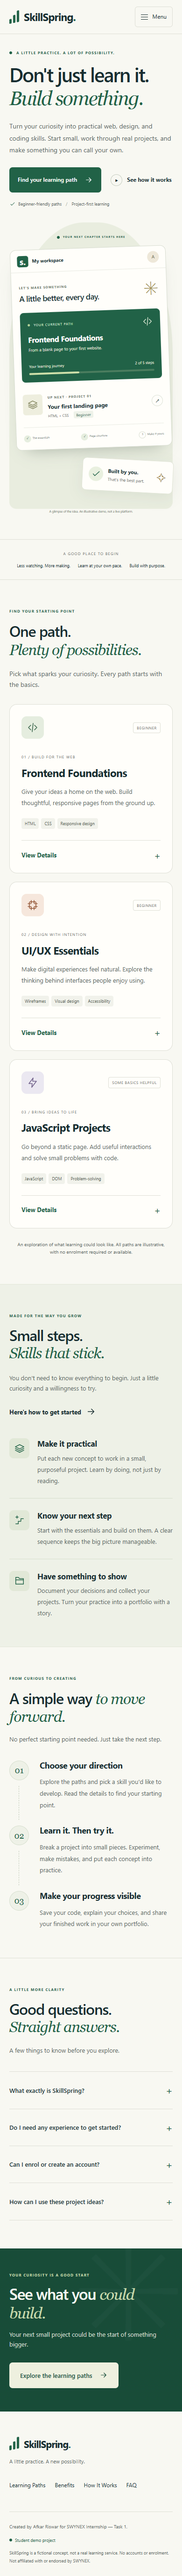
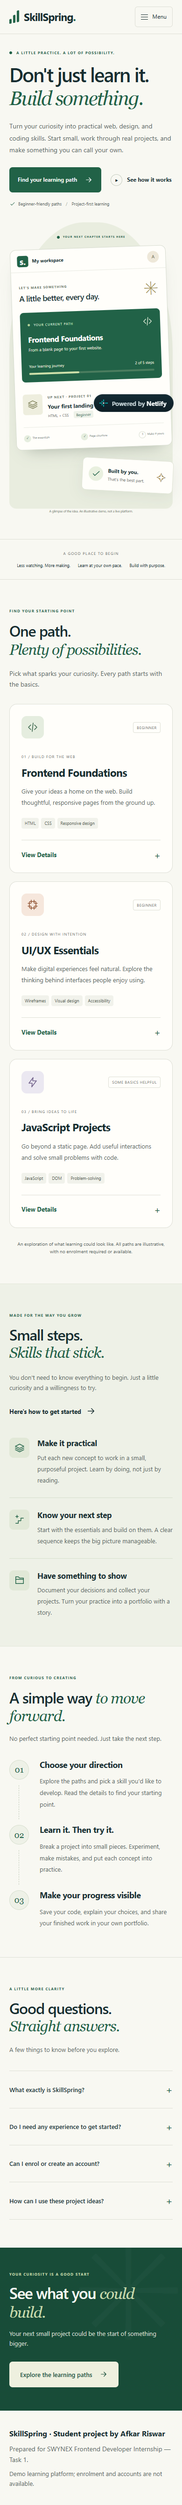
Deploy SkillSpring to Netlify and simplify footer

diff --git a/styles.css b/styles.css
@@ -228,8 +228,7 @@ p {
   font-weight: 550;
   padding-block: 13px;
 }
-.site-nav > a:not(.button):hover,
-.site-footer nav a:hover {
+.site-nav > a:not(.button):hover {
   color: var(--green);
   text-decoration: underline;
   text-underline-offset: 5px;
@@ -926,51 +925,20 @@ h1 .serif-accent {
   pointer-events: none;
 }
 .site-footer {
-  padding-block: 47px 25px;
+  padding-block: 36px;
 }
-.footer-top {
-  display: flex;
-  align-items: center;
-  gap: 26px;
-  padding-bottom: 34px;
-  border-bottom: 1px solid var(--line);
+.footer-identity {
+  color: var(--ink);
+  font-size: 16px;
+  font-weight: 650;
+  margin-bottom: 8px;
 }
-.footer-top .wordmark {
-  font-size: 21px;
-}
-.footer-top > p {
-  font-size: 10px;
-}
-.footer-top nav {
-  display: flex;
-  gap: 23px;
-  margin-left: auto;
-}
-.footer-top nav a {
-  display: inline-flex;
-  align-items: center;
-  font-size: 11px;
-  min-height: 44px;
-}
-.footer-bottom {
-  display: flex;
-  justify-content: space-between;
-  gap: 20px;
-  padding-top: 23px;
-}
-.footer-bottom p {
-  font-size: 10px;
-}
-.demo-badge {
-  font-size: 9px;
-  display: flex;
-  align-items: center;
-  gap: 6px;
-  color: var(--green);
+.footer-task {
+  font-size: 14px;
 }
 .footer-disclaimer {
-  font-size: 9px;
-  margin-top: 12px;
+  font-size: 13px;
+  margin-top: 7px;
 }
 
 @media (min-width: 1500px) {
@@ -1020,13 +988,6 @@ h1 .serif-accent {
   }
   .faq-grid {
     gap: 50px;
-  }
-  .footer-top {
-    flex-wrap: wrap;
-    gap: 12px 24px;
-  }
-  .footer-top nav {
-    gap: 16px;
   }
 }
 @media (max-width: 800px) {
@@ -1118,11 +1079,6 @@ h1 .serif-accent {
     flex-direction: column;
     align-items: flex-start;
     gap: 28px;
-  }
-  .footer-top nav {
-    width: 100%;
-    margin-left: 0;
-    gap: 25px;
   }
 }
 @media (max-width: 600px) {
@@ -1402,31 +1358,6 @@ h1 .serif-accent {
   }
   .final-cta p:not(.eyebrow) {
     font-size: 13px;
-  }
-  .footer-top {
-    gap: 7px;
-  }
-  .footer-top > p {
-    width: 100%;
-    margin-bottom: 13px;
-    font-size: 11px;
-  }
-  .footer-top nav {
-    flex-wrap: wrap;
-    gap: 2px 20px;
-  }
-  .footer-top nav a {
-    font-size: 12px;
-  }
-  .footer-bottom {
-    flex-direction: column;
-    gap: 13px;
-  }
-  .footer-bottom p {
-    font-size: 10px;
-  }
-  .footer-disclaimer {
-    line-height: 1.8;
   }
 }
 @media (prefers-reduced-motion: reduce) {

diff --git a/index.html b/index.html
@@ -532,27 +532,14 @@
 
     <footer class="site-footer">
       <div class="container">
-        <div class="footer-top">
-          <a class="wordmark" href="#home"
-            ><span class="brand-mark" aria-hidden="true"
-              ><span></span><span></span><span></span></span
-            >SkillSpring<span class="brand-dot">.</span></a
-          >
-          <p>A little practice. A new possibility.</p>
-          <nav aria-label="Footer navigation">
-            <a href="#paths">Learning Paths</a><a href="#benefits">Benefits</a
-            ><a href="#how-it-works">How It Works</a><a href="#faq">FAQ</a>
-          </nav>
-        </div>
-        <div class="footer-bottom">
-          <p>Created by Afkar Riswar for SWYNEX Internship &mdash; Task 1.</p>
-          <span class="demo-badge"
-            ><span class="small-dot"></span> Student demo project</span
-          >
-        </div>
+        <p class="footer-identity">
+          SkillSpring &middot; Student project by Afkar Riswar
+        </p>
+        <p class="footer-task">
+          Prepared for SWYNEX Frontend Developer Internship &mdash; Task 1.
+        </p>
         <p class="footer-disclaimer">
-          SkillSpring is a fictional concept, not a real learning service. No
-          accounts or enrolment. Not affiliated with or endorsed by SWYNEX.
+          Demo learning platform; enrolment and accounts are not available.
         </p>
       </div>
     </footer>

diff --git a/README.md b/README.md
@@ -2,9 +2,11 @@
 
 A warm, project-focused landing page for a fictional student learning platform. Created by Afkar Riswar for **SWYNEX Frontend Developer Internship - Task 1**, with AI assistance.
 
-**Live Demo:** [Open SkillSpring](https://scarface-dmd.github.io/SWYNEX-Responsive-Landing-Page/)
+**Live Demo:** [Open SkillSpring on Netlify](https://skillspring-afkar-riswar.netlify.app/)
 
 **Public Repository:** [scarface-dmd/SWYNEX-Responsive-Landing-Page](https://github.com/scarface-dmd/SWYNEX-Responsive-Landing-Page)
+
+**GitHub Pages Backup:** https://scarface-dmd.github.io/SWYNEX-Responsive-Landing-Page/
 
 This is a student demonstration, not a real learning service. SkillSpring is not owned, affiliated with, or endorsed by SWYNEX. There is no backend, database, enrolment, payment, account creation, or personal-data collection.
 
@@ -31,7 +33,7 @@ This implementation uses semantic HTML5, CSS3, and vanilla JavaScript. It has no
 - [Desktop, 1440px](assets/screenshots/desktop-1440.png)
 - [Mobile, 390px](assets/screenshots/mobile-390.png)
 
-Both captures show the updated layout, with the dashboard badge below the learning checklist.
+Both captures show the Netlify deployment, including the simplified three-line student-project footer. Netlify adds its own Free-plan branding badge.
 
 ## File Structure
 
@@ -52,7 +54,7 @@ Both captures show the updated layout, with the dashboard badge below the learni
 
 ## Run Locally
 
-Open `index.html` directly in a modern browser, or use a static server. A server is recommended to mirror GitHub Pages:
+Open `index.html` directly in a modern browser, or use a static server. A server is recommended to mirror static hosting:
 
 ```powershell
 # Run from the project folder.
@@ -86,11 +88,11 @@ Visit **http://127.0.0.1:4173/**. Stop the server with `Ctrl+C`. If Python is un
 
 ## Testing Results
 
-Local browser checks used Python's static server, a repository-subdirectory preview, and installed Google Chrome controlled through Playwright. Test tools run outside the project; they are not site dependencies. The layout fix was checked at all five widths below. The focus-ring fix received a separate keyboard/contrast check.
+Local browser checks used Python's static server and installed Google Chrome controlled through Playwright. The Netlify production site was also tested directly in a fresh browser session without authentication at all five widths below. Earlier repository-subdirectory and contrast investigations are recorded separately. Test tools run outside the project; they are not site dependencies.
 
 | Check | Actual result |
 | --- | --- |
-| Viewports: 360, 390, 768, 1024, 1440px, each 900px high | Passed DOM/layout and interaction checks at all five widths |
+| Viewports: 360, 390, 768, 1024, 1440px, each 900px high | Local and live Netlify DOM/layout and interaction checks passed at all five widths |
 | Horizontal overflow and layout | None detected at all five widths, including expanded cards; screenshots visually reviewed; badge no longer overlaps checklist text |
 | Internal links | All fragment targets exist; no empty or bare `#` links |
 | Mobile menu at 360/390px | Opens; closes via toggle, section selection, and Escape; expanded state updates |
@@ -98,19 +100,21 @@ Local browser checks used Python's static server, a repository-subdirectory prev
 | Mobile/desktop resize | Menu state resets across the 600px breakpoint |
 | Course cards | All three open and close at each width; hidden/expanded states stay in sync |
 | FAQ | All four toggle using Enter on a focused summary at each width |
-| Keyboard navigation | First Tab reaches the skip link; 19 mobile and 23 desktop tab stops have nonempty labels and visible 3px outlines; mobile keyboard opening, link entry, and Escape focus return passed |
+| Keyboard navigation | Live Netlify skip-link/focus checks passed; local tab-order audit verified 14 mobile and 18 desktop tab stops with nonempty labels and visible 3px outlines; mobile keyboard opening, link entry, and Escape focus return passed |
 | Sticky-header offset | Mobile benefits destination appears below the header |
 | Reduced motion | Computed scroll behavior becomes `auto` |
 | Local asset loading | Favicon served successfully; no failed browser resource requests |
 | Browser console and page errors | None observed during the checks |
 | JavaScript syntax | `node --check script.js` passed |
-| Screenshots | Full-page captures visually reviewed at all five widths; 1440px desktop and 390px mobile captures retained in the project |
-| axe-core WCAG 2.0/2.1 A/AA scan | No automated violations at 390px and 1440px; contrast background-sampling results remain incomplete for some decorative regions; calculated colour checks supplement them below |
-| Repository subdirectory | The same browser checks passed under a local `/SWYNEX-Responsive-Landing-Page/` prefix; all three runtime asset paths match filename case exactly |
-| Navigation and CTAs | All 16 internal links were clicked at 390px and 1440px; destinations were visible; card buttons also worked with Space and Enter |
-| Published site and files | Anonymous HTTPS requests succeeded; published HTML, CSS, JavaScript, favicon, and both screenshots matched their tested local files byte for byte |
+| Screenshots | Updated full-page Netlify captures at all five widths; 1440px desktop and 390px mobile captures retained in the repository |
+| axe-core WCAG 2.0/2.1 A/AA scan | No automated violations locally or on Netlify at 390px and 1440px; background-sampling results remain incomplete for some decorative regions and the host-managed branding badge |
+| Repository subdirectory | Previously verified under a local `/SWYNEX-Responsive-Landing-Page/` prefix; runtime asset paths remain relative and unchanged |
+| Navigation and CTAs | All 11 current internal links were clicked on live Netlify at 390px and 1440px; destinations were visible; card buttons also worked with Space and Enter |
+| Footer | Exact requested three paragraphs verified locally and on Netlify at all five widths; text sizes are 16px, 14px, and 13px, with wrapping and no horizontal overflow |
+| Published Netlify files | Anonymous HTTPS requests succeeded; CSS, JavaScript, and favicon matched local files byte for byte; HTML matched after accounting for Netlify's hosting comment and badge script |
+| Upload scope | Only four runtime files were packaged; `.git/config`, `.env`, README, learning notes, screenshots, dependency files, and Netlify's internal config URL returned 404 on Netlify |
 | Public repository | Accessible over HTTPS without authentication |
-| Direct live-browser testing | Automated Chrome still returns `ERR_CONNECTION_RESET` for the live host before loading the page, while anonymous curl HTTPS requests succeed; local and live checks are not treated as equivalent |
+| Direct live-browser testing | Netlify passed direct Chrome testing; the previously observed GitHub Pages `ERR_CONNECTION_RESET` is not treated as a project code defect |
 
 ### Contrast Investigation
 
@@ -131,18 +135,29 @@ axe-core reports that pseudo-elements prevent it from determining some dashboard
 
 ### Known Limitations
 
-- Direct interactive testing of the public site in automated Chrome remains unavailable in this environment. The same browser can load a control HTTPS site, and curl can download the published site and assets with certificate verification enabled. This is a client/host transport-dependent failure, not a reproduced HTML, CSS, or JavaScript defect; its underlying network cause is unconfirmed. No browser security or TLS verification controls were disabled.
-- Public HTTPS downloads and local browser interaction tests are separate evidence, not a claim of a successful live-browser session.
+- GitHub Pages previously returned `ERR_CONNECTION_RESET` in automated Chrome and was reported inaccessible in the user's browser, despite successful HTTPS downloads. Its underlying transport cause is unconfirmed. The primary Netlify URL has passed both anonymous HTTPS and direct browser checks; no browser security or TLS verification controls were disabled.
+- Netlify adds a host-managed branding badge and hosting markup on the Free plan. These were retained; no paid plan, domain, or add-on was purchased. The application's own assets remain local.
 - Automated contrast background sampling remains incomplete as described above. Explicit colour calculations do not constitute full accessibility certification.
 - Physical-device, screen-reader, Safari, Firefox, and 200% browser-zoom testing have not been performed.
 - The dashboard and course outlines are illustrative. There are no real accounts, delivered courses, or enrolments.
 
-## GitHub Pages Deployment
+## Netlify Deployment
+
+- Production URL: https://skillspring-afkar-riswar.netlify.app/
+- Project: **skillspring-afkar-riswar**, on the **Free** plan; automatic top-ups are disabled.
+- Deployment used the official Netlify CLI with `--prod --no-build` and a separate publish folder containing only `index.html`, `styles.css`, `script.js`, and `assets/favicon.svg`.
+- Production is public over HTTPS; non-production previews remain behind Netlify team login. Team visibility defaults were not changed.
+- Documentation, Git metadata, screenshots, local tools, and credentials were excluded from the upload. Netlify's internal deployment configuration is not publicly served.
+
+This is a manual static deployment, not a Git-connected Netlify build. A push to GitHub does not automatically update Netlify. For future Netlify updates, upload a folder containing the same four runtime files through this existing project's **Deploys** page, or use the official CLI with `--prod --no-build` and project ID `02612f8f-d99b-4a94-9754-2bc4fcf40f06`. No compilation or backend is required.
+
+## GitHub Pages Backup
 
 - Public repository: [scarface-dmd/SWYNEX-Responsive-Landing-Page](https://github.com/scarface-dmd/SWYNEX-Responsive-Landing-Page).
 - Publishing source: **Deploy from a branch**, **main**, **/ (root)**.
 - Entry point: `index.html` at the repository root; HTTPS is enforced.
 - GitHub automatically rebuilds and deploys updates pushed to `main`. Deployment status appears in the repository's **Actions** tab; configuration is under **Settings > Pages**.
+- The original repository and GitHub Pages deployment remain in place.
 
 Relative stylesheet, script, and favicon paths support the repository subdirectory. No custom domain, secrets, environment variables, or local build command are required.
 

diff --git a/LEARNING-NOTES.md b/LEARNING-NOTES.md
@@ -9,12 +9,12 @@ These notes explain this specific implementation. They do not describe or invent
 - `script.js` opens and closes the mobile menu and expands the three learning-path cards. It does not connect to a server or create accounts.
 - `assets/favicon.svg` is the small SkillSpring bar-mark icon used in the browser tab.
 - `assets/screenshots/` contains saved desktop and mobile views for review. These images are not loaded by the landing page.
-- `README.md` describes the project, testing, local setup, limitations, AI assistance, and GitHub Pages publishing.
+- `README.md` describes the project, testing, local setup, limitations, the Netlify deployment, and the GitHub Pages backup.
 - `.gitignore` keeps local editor folders, log files, and optional tool dependencies out of Git.
 
 ## How the HTML Is Organised
 
-The header contains a wordmark, menu button, and navigation. The `main` contains the hero, learning paths, benefits, process, FAQ, and final CTA. The footer contains working navigation, attribution, and the student-demo disclosure.
+The header contains a wordmark, menu button, and navigation. The `main` contains the hero, learning paths, benefits, process, FAQ, and final CTA. The footer contains three readable paragraphs: the student-project credit, internship task attribution, and demo availability statement. It does not offer accounts or enrolment.
 
 There is one `h1` for the main headline. The content sections use `h2`, cards use `h3`, and expanded course outlines use `h4`. Section IDs such as `paths` and `faq` match links such as `href="#paths"`.
 
@@ -117,7 +117,7 @@ The FAQ uses native HTML `details` and `summary`, which already provide expandab
 
 ### 4. What makes the page work on GitHub Pages without a build step?
 
-It is plain HTML, CSS, JavaScript, and local SVG. Asset paths start with `./` rather than an absolute domain or root path. GitHub Pages can serve these files directly from the repository root.
+It is plain HTML, CSS, JavaScript, and local SVG. Asset paths start with `./` rather than an absolute domain or root path. GitHub Pages can serve these files directly from the repository root. Netlify also serves the same four runtime files without compilation; its upload excludes the documentation, screenshots, and Git files. Netlify updates are manual, while GitHub Pages updates from `main`.
 
 ### 5. What is real on this page, and what is only illustrative?
 
